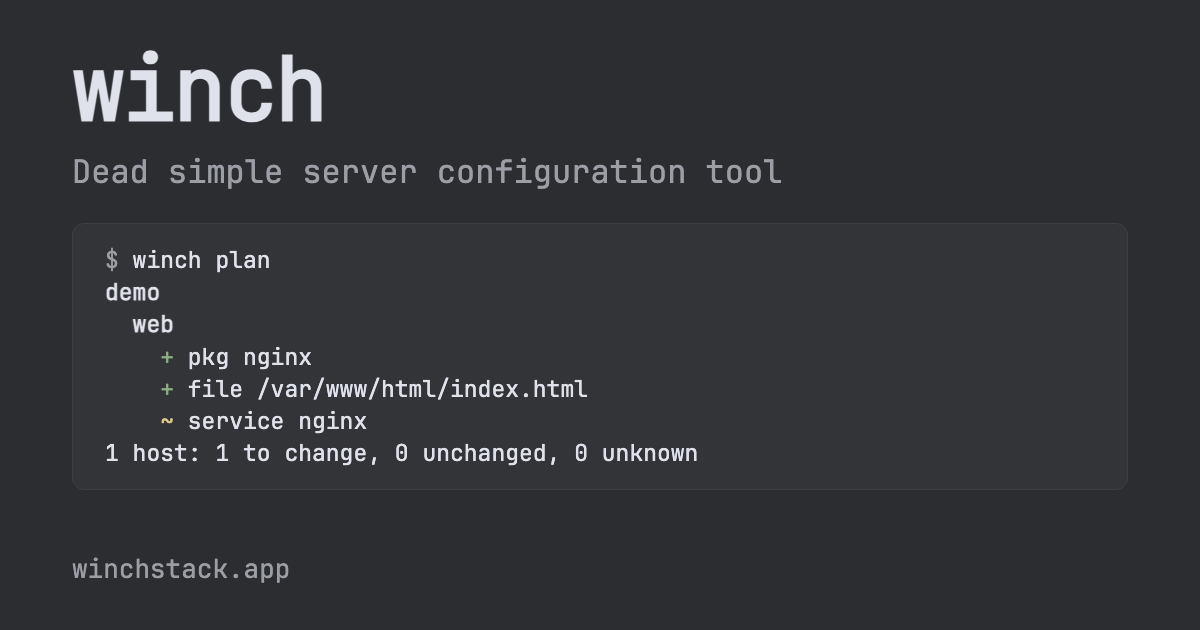
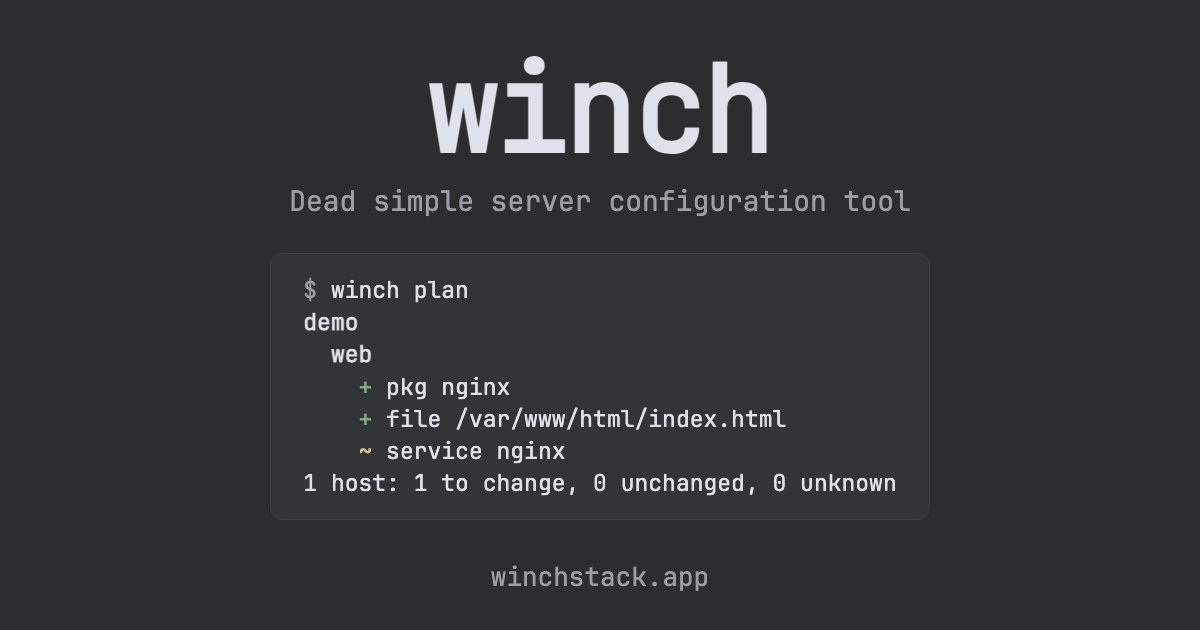
fix: show the large link preview in Slack
Slack showed the preview image as a small thumbnail that cut off the
name. Slack reads the first set of card tags in the page, and the
Open Graph set came first, without a card type.

The head now puts the Twitter card tags first, so Slack reads
summary_large_image. The card is centered, so the square thumbnails
of chats still show the name and the tagline.

diff --git a/layouts/_partials/docs/html-head.html b/layouts/_partials/docs/html-head.html
@@ -1,0 +1,59 @@
+{{ "<!--" | safeHTML }}
+Made with Book Theme
+https://github.com/alex-shpak/hugo-book
+{{ "-->" | safeHTML }}
+
+<meta charset="UTF-8">
+<meta name="viewport" content="width=device-width, initial-scale=1.0">
+<meta name="description" content="{{ or .Description .Summary | plainify | htmlUnescape }}">
+<meta name="theme-color" media="(prefers-color-scheme: light)" content="#ffffff">
+<meta name="theme-color" media="(prefers-color-scheme: dark)" content="#2e3440">
+<meta name="color-scheme" content="light dark">
+
+{{- with .Page.Params.BookHref -}}
+  <meta http-equiv="Refresh" content="0; url='{{ . }}'" />
+{{- end -}}
+
+{{ partial "twitter_cards.html" . }}
+{{ partial "opengraph.html" . }}
+{{ partial "schema.html" . }}
+
+<title>{{ partial "docs/html-head-title" . }}</title>
+{{ partial "docs/html-head-favicon" . }}
+
+{{- $manifest := resources.Get "manifest.json" | resources.ExecuteAsTemplate "manifest.json" . }}
+<link rel="manifest" href="{{ $manifest.RelPermalink }}">
+<link rel="canonical" href="{{ .Permalink }}">
+
+{{- range .Translations }}
+  <link rel="alternate" hreflang="{{ default .Site.Language.Locale .Language.Name }}" href="{{ .Permalink }}" title="{{ partial "docs/title" . }}">
+{{- end -}}
+
+<!-- Theme stylesheet, you can customize it by creating `assets/styles/custom.css` in your website -->
+{{ partial "docs/html-head-styles" . }}
+
+<!-- Search -->
+{{- if default true .Site.Params.BookSearch -}}
+  {{- $searchJS := resources.Get "search.js"
+    | resources.ExecuteAsTemplate (printf "%s.search.js" .Language.Name) .
+    | resources.Minify | resources.Fingerprint -}}
+  <script type="module" src="{{ partial "docs/links/resource-precache" $searchJS }}" {{ template "integrity" $searchJS }}></script>
+{{- end -}}
+
+<!-- Service Worker -->
+{{- if .Site.Params.BookServiceWorker -}}
+  {{- $swJS := resources.Get "sw-register.js" | resources.ExecuteAsTemplate "sw.js" . | resources.Minify | resources.Fingerprint }}
+  <script defer src="{{ $swJS.RelPermalink }}" {{ template "integrity" $swJS }}></script>
+{{ end -}}
+
+{{ partial "google_analytics.html" . }}
+
+{{- range .AlternativeOutputFormats -}}
+  {{ printf `<link rel="%s" type="%s" href="%s" title="%s" />` .Rel .MediaType.Type .Permalink $.Title | safeHTML }}
+{{ end -}}
+
+{{- define "integrity" -}}
+  {{- if (urls.Parse .Permalink).Host -}}
+    integrity="{{ .Data.Integrity }}" crossorigin="anonymous"
+  {{- end -}}
+{{- end -}}

diff --git a/layouts/_partials/docs/inject/head.html b/layouts/_partials/docs/inject/head.html
@@ -1,2 +1,1 @@
 <script data-goatcounter="/a/v" async src="/a/v.js"></script>
-{{ partial "twitter_cards.html" . }}
